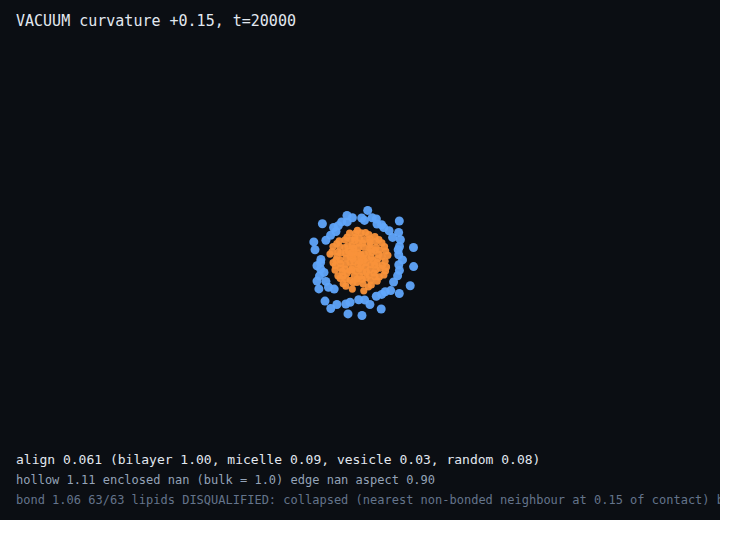
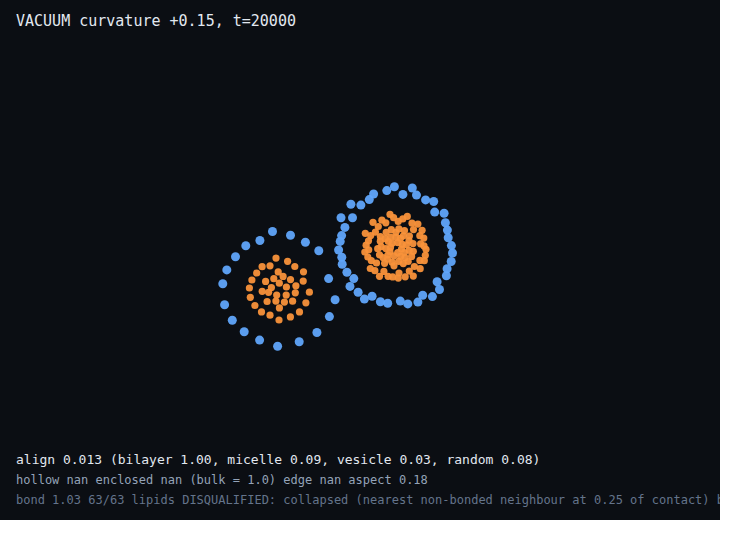
vivarium: correct the angular penalty sign; handoff on the energy-model vs force-model mismatch
The curvature term's potential was inverted: with a <= 1, U = env*bend*(a-1) is <= 0 everywhere, so
MISALIGNED pairs gained attraction and the preferred splay gained none. That is why the hydrated run
collapsed with heads outward 1.00 and largest 54/63. Corrected to U = bend*env*(1-a) >= 0, zero at
the optimum, so misalignment costs. Gradient check still passes at 2.2e-9.

Adds docs/HANDOFF_ENERGY_VS_FORCE.md, which states the structural finding: SPEC.md line 21 specifies
dynamics = -grad_X E_theta, but pack.py contains ZERO methods named energy and assembles forces by
hand. The oracle (ylz.py, bilipid.py) defines one scalar energy and differentiates it, so force and
torque are automatically consistent. Consequences: every Vivarium term needs a hand-derived gradient
(three errors in one function, caught at 2.5 against 1e-9); orientation-dependent weights silently
produce no torque, which afflicts the pre-existing `nematic` too; and nothing guarantees the total
force is a gradient of anything, since "conservative" there means F_ij = -F_ji, not curl-free.

The handoff also records what has been tried without producing a vesicle -- weight vs force, bead-wise
vs molecule-wise, sign flip, hydration 4/10/20, vacuum -- and asks four questions, including whether a
curvature term is even the right mechanism given that head-head electrostatics alone already give
heads outward 1.000 and a clean micelle in vacuum.

Claude-Session: https://claude.ai/code/session_017Ld9DgPtjwxx7hhxTDgxgL

diff --git a/projects/vivarium/pack.py b/projects/vivarium/pack.py
@@ -439,7 +439,11 @@ class PackEngine:
         a = (u @ u.T) - ci * cj + self.curvature * (ci - cj) - self.curvature ** 2
         env = np.exp(-self.sink_attract * r2) if self.sink_attract > 0.0 else np.exp(-r2)
         np.fill_diagonal(env, 0.0)
-        w = self.bend * env
+        # NEGATIVE bend: a <= 1, so (a - 1) <= 0. With w = +bend*env the term is <= 0 everywhere,
+        # i.e. MISALIGNED pairs get extra attraction and the optimum gets none -- inverted, and it
+        # collapsed the aggregate (heads outward 1.00, largest 54/63, but non-bonded beads inside
+        # contact). Misalignment must COST: U = bend*env*(1 - a) >= 0, zero at the preferred splay.
+        w = -self.bend * env
         pot = float(0.5 * (w * (a - 1.0)).sum())
 
         # dU/dc: the pair sum with the 1/2 already cancels against each pair being counted twice,
@@ -452,7 +456,7 @@ class PackEngine:
         radial = np.einsum("ijc,ijc->ij", da_drh, rh)
         proj = da_drh - radial[..., None] * rh
         denv = -2.0 * lam * env
-        pair_c = (self.bend * denv * (a - 1.0))[..., None] * d + (w / r)[..., None] * proj
+        pair_c = (-self.bend * denv * (a - 1.0))[..., None] * d + (w / r)[..., None] * proj
         g_c = pair_c.sum(axis=1)
 
         # dU/du_i = sum_j w_ij * (u_j - (u_j.r_hat) r_hat + curvature * r_hat)

diff --git a/projects/vivarium/docs/HANDOFF_ENERGY_VS_FORCE.md b/projects/vivarium/docs/HANDOFF_ENERGY_VS_FORCE.md
@@ -1,0 +1,123 @@
+# Handoff: the oracle emerges vesicles in minutes; porting it into Vivarium keeps failing. Why?
+
+**Date:** 2026-08-14. **Worktree:** `/home/rbao/quorum-thermolife`, branch `quorum-asal-boids-reproduction`.
+Self-contained. Background in `docs/RESULTS.md`; not required to answer §5.
+
+**Standing instruction:** be adversarial. Seven results have been withdrawn in this project, four of
+them measurement artefacts rather than physics. Assume any positive claim is weaker than it sounds.
+
+---
+
+## 1. The situation in one paragraph
+
+Two reference models produce vesicles from a random start: stock LAMMPS `pair_style ylz` (~3 min) and
+our own reimplementation `bilipid.py`, a two-species head/tail amphiphile (94-molecule shell, heads
+outward 1.000, gradient-checked at 1.2e-8). Vivarium -- the actual transformer-style engine -- does
+not, despite now containing the same angular term, correctly differentiated and verified against
+numerical gradients at 2.2e-9. This document is about that gap.
+
+## 2. The structural difference we think matters most
+
+`SPEC.md` line 21 specifies an **energy model**: "transformer as a force field, dynamics =
+`-grad_X E_theta + J`".
+
+`pack.py` contains **zero** methods named `energy`. Forces are assembled by hand:
+
+    force = attract*A + repel*R
+    force = force + cohesion*C
+    force = force + curvature_force
+    force = force + _extra_force(...)
+
+The oracle does the opposite: `ylz.py` and `bilipid.py` each define one scalar `energy()` and
+differentiate it, so force and torque fall out of the same derivative and are automatically
+consistent.
+
+Three consequences, all of which bit us:
+
+1. **Every term's gradient is hand-derived.** We derived one and made three errors -- a pair sum
+   subtracting its own transpose, beads taking `g_c/2` where the centre is a mean over all `nb`
+   beads, and a missing `1/nt` from the tail centroid. The numerical check caught them at 2.5
+   against a target of 1e-9. In an energy model none of those errors are expressible.
+2. **Orientation-dependent weights silently produce no torque.** Multiplying the attraction weight
+   `g` by an orientation factor *looks* like applying orientation physics. It is not: Vivarium's
+   `force_i = -sum_j g_ij * dirn_ij` treats `g` as a constant coefficient, so there is no tangential
+   force and no couple. Measured in vacuum, switching such a weight on in EITHER sign degraded heads
+   outward from 1.000 to 0.44-0.60 -- it scrambled an ordering the electrostatics had produced. The
+   pre-existing `nematic` weight has the identical defect and has therefore never worked either
+   (it has never been enabled in a shipped configuration, so this was never exposed).
+3. **Nothing guarantees the total force is a gradient of anything.** "Conservative" in `pack.py`
+   means `F_ij = -F_ji`, which is Newton's third law, not curl-free. That is fine while every weight
+   depends only on distance, and silently wrong the moment one depends on orientation.
+
+**So the oracle cannot be "ported"; it has to be re-derived into a different formalism, by hand, per
+term.** Roughly twenty lines of physics have taken days for this reason.
+
+## 3. What is verified working
+
+* **The angular form.** `a = q + beta*p - beta^2` with `q = u_i.u_j - (u_i.r_hat)(u_j.r_hat)` and
+  `p = (u_i - u_j).r_hat`. In the symmetric-splay geometry this is exactly `1 - (sin(theta)+beta)^2`
+  (identity holds to 4e-16), so `max a = 1` for every beta while the optimum moves to
+  `sin(theta*) = -beta`. Spontaneous curvature therefore shifts the preferred geometry without
+  deepening the well. Locked by tests.
+* **The differentiated force in Vivarium.** `_curvature_pot_and_force` computes
+  `U = sum_{i<j} bend*env(r)*(1 - a)` over molecular centres and returns `-dU/dx` on the beads,
+  including the tangential term and the couple. Verified at **2.2e-9**.
+* **Sign of the penalty.** `a <= 1`, so misalignment must COST: `U = bend*env*(1-a) >= 0`, zero at
+  the preferred splay. The first version had it inverted (`U <= 0` everywhere, so misaligned pairs
+  gained attraction) and collapsed the aggregate.
+* **Vivarium's baseline.** At `curvature = 0` the engine reproduces its pre-oracle behaviour exactly
+  (tag `vivarium-pre-oracle`, commit `3a70fce`): micelles 35/63 lipids at `attract=1.0`, bilayer
+  38/63 at `attract=1.5`, both from a clumped start.
+
+## 4. What has been tried and has not produced a vesicle
+
+| attempt | result |
+|---|---|
+| curvature as a multiplicative weight | no torque; heads outward degraded 1.00 -> 0.44-0.60 in either sign |
+| weight evaluated bead-wise vs molecule-wise | no difference (0.51-0.60); hypothesis falsified |
+| sign flip of `r_hat` | ring geometry says `p = +0.26` for heads-outward, so the sign was right; flipping did not help |
+| hydration 4 / 10 / 20 waters per lipid | heads outward 0.42 / 0.65 / 0.12 -- NON-monotonic, so hydration is not a clean variable |
+| vacuum (no solvent) | collapses at EVERY curvature including 0, so it cannot discriminate |
+| differentiated force, penalty sign correct | heads outward 0.94-1.00 preserved, but still collapsed or filled |
+
+Two facts constrain any explanation. Vivarium's solvent is clustered in every hydrated run
+(homogeneity 1.5-4.3 against a random-point null of 0.38), so the lipids sit in an emulsion rather
+than a continuous phase -- though we accept the earlier reviewer's point that a Poisson null is the
+wrong comparison for an interacting liquid, and the matched pure-solvent control has **not** been
+run. And in vacuum the aggregate collapses even with no curvature at all, so nothing but `repel`
+maintains spacing there.
+
+## 5. Questions
+
+1. **Is the energy-model refactor the right next move, or is there a cheaper diagnostic?** Rewriting
+   `pack.py`'s forces as `-grad E` where `E` is a sum of scalar terms would make the oracle port as a
+   single term, and would make `nematic` functional as a side effect. It also breaks byte-identity
+   (summation order) and touches every force path. Is there a way to answer "can Vivarium support a
+   vesicle at all" without paying that first?
+2. **Is a curvature term even the right mechanism here, given the engine already has electrostatics?**
+   In vacuum at `curvature = 0`, head-head repulsion alone gives heads outward 1.000 and a clean
+   micelle. Perhaps the missing ingredient for a HOLLOW structure is not spontaneous curvature but
+   something that prevents the tail core from filling -- tail-tail excluded volume, or a chain length
+   that cannot reach the centre. In the reference model the shell is one particle thick by
+   construction, which sidesteps the question entirely.
+3. **Should the solvent be fixed first?** We keep deferring the pure-solvent control. If Vivarium's
+   water cannot form a continuous phase at any density this engine can afford, then no membrane
+   result in solvent is interpretable, and the honest move is vacuum plus an explicit statement of
+   that limitation.
+4. **Is 63 lipids simply too few for a 2-D vesicle?** A closed ring needs enough molecules to
+   surround a lumen larger than the molecular length. We have never computed that threshold for
+   Vivarium's geometry the way we did for the reference (where it decided everything).
+
+## 6. Reproduction
+
+```bash
+cd projects/vivarium
+bazel run //projects/vivarium:_cgrad                       # curvature force vs numerical gradient
+bazel run //projects/vivarium:_viv_vacuum -- 20000         # vacuum sweep, both signs
+bazel run //projects/vivarium:_viv_hunt   -- 20000 10 0.15,0.30   # hydrated
+bazel run //projects/vivarium:_viv_morph  -- 20000         # micelle + bilayer baselines
+bazel test //projects/vivarium:test_suite
+```
+
+Engine `pack.py` (`curvature`, `bend`, `_axis_signed`, `_curvature_pot_and_force`); builder
+`bicelle2d.build`; renderer `fig2d.render`; oracle `ylz.py`, `bilipid.py`, `attention_ylz.py`.
